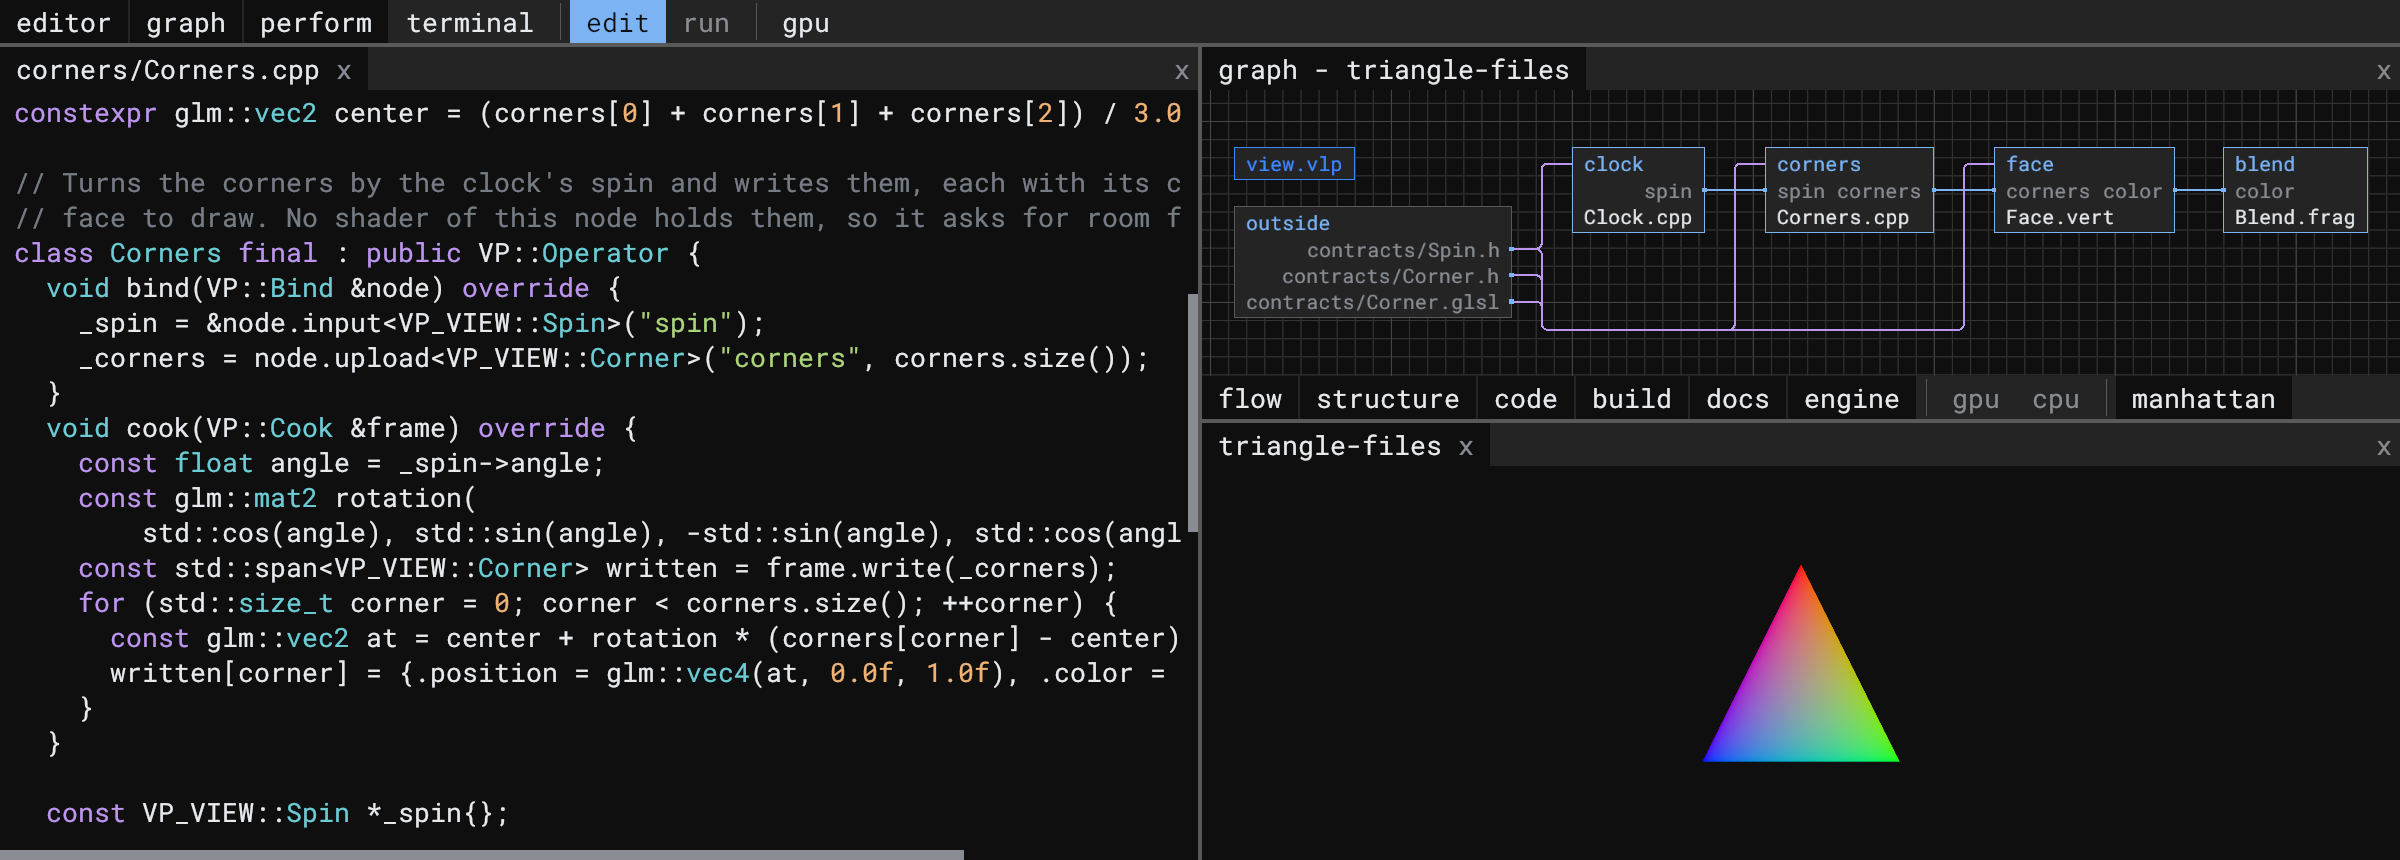
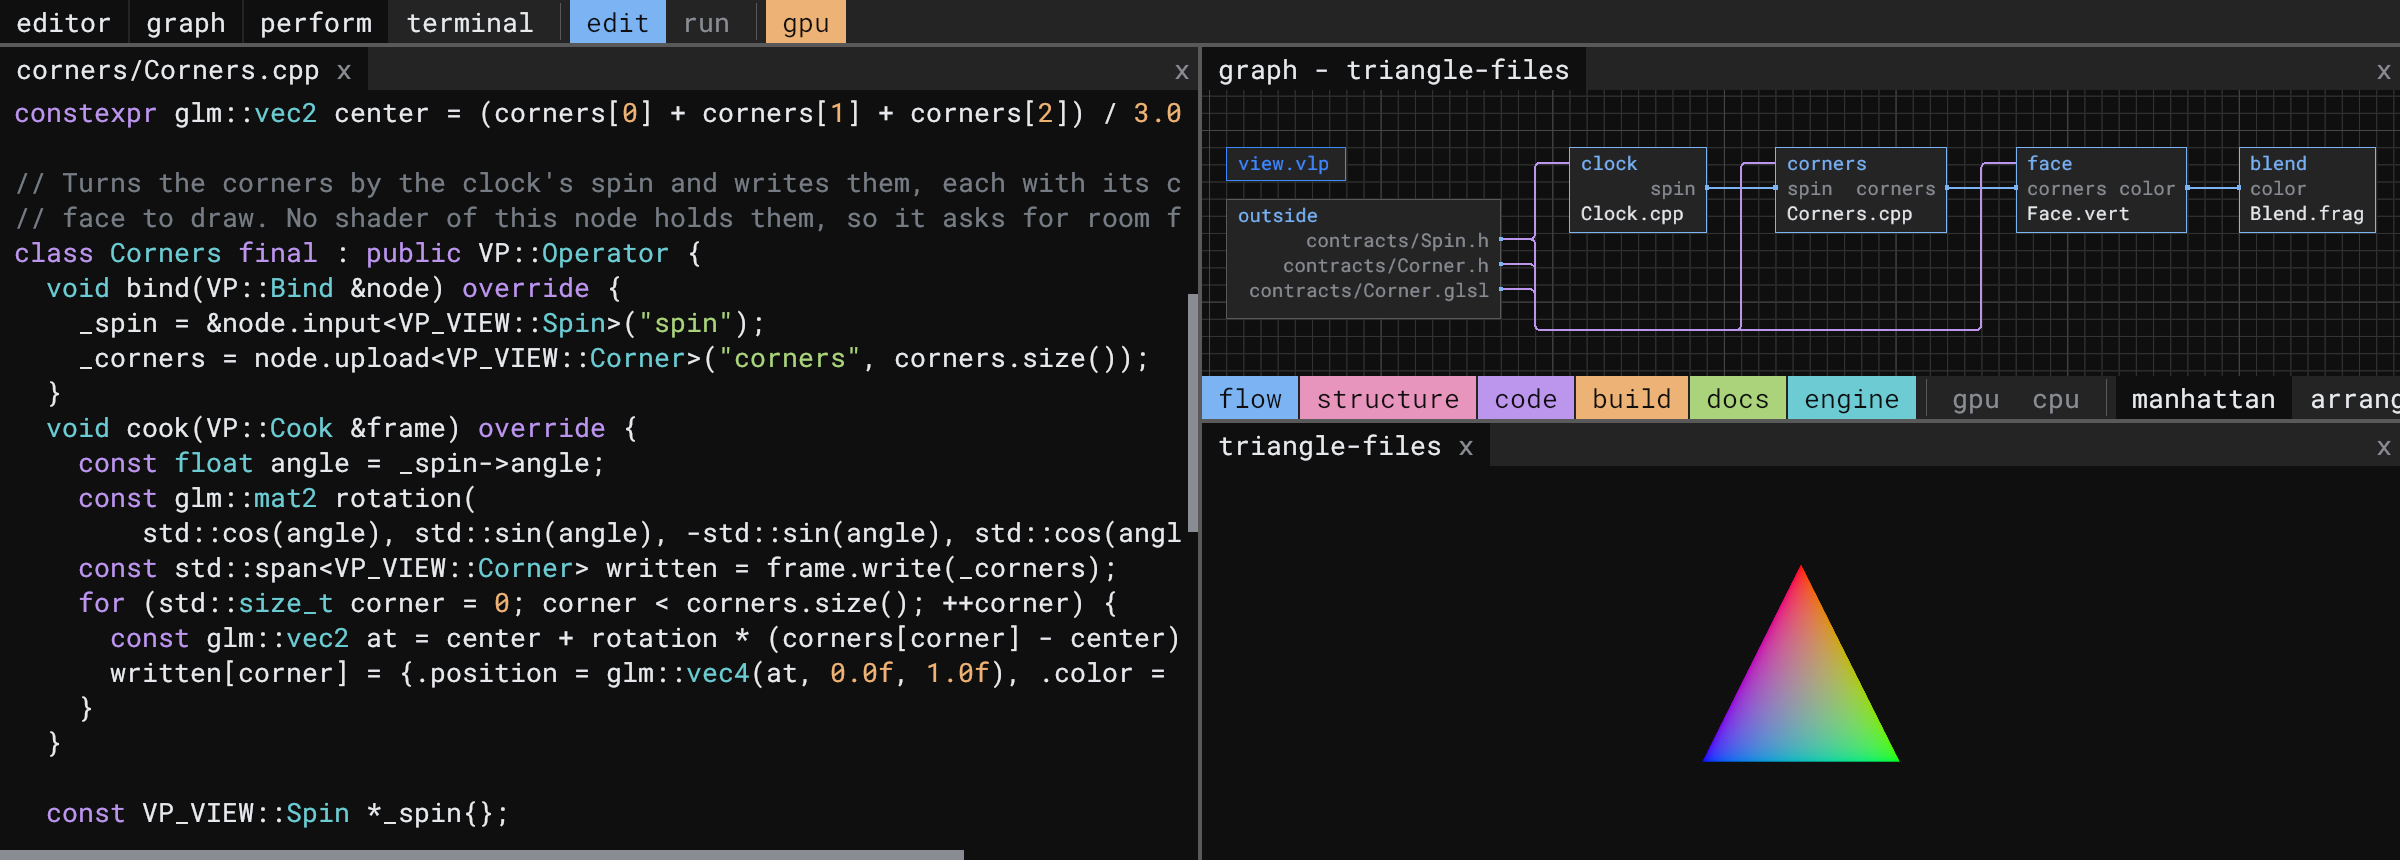
readme images: retaken for this round; LICENSE placed in the repository
The README's pictures, retaken by the release build: the graph's layer
buttons in their curves' colors, the gpu button lit, boxes on the
ground's lines, and the arrange button. LICENSE, which came after the
pictures were last taken, had no place in the repository's tracked
.vulpen/graph.ini, so the graph put it far below the others and home
zoomed the whole repository out; it goes in the column of the other
files at the top, below CMakePresets.json. A second run wrote the same
bytes for every picture but the two the place changed. perform.png is
as it was. performance.md as the release build left it.

Changed region(s): [[0.5, 0.0907, 1.0, 0.514], [0.3125, 0.0, 0.375, 0.0605]]

diff --git a/docs/statistics/performance.md b/docs/statistics/performance.md
@@ -4,5 +4,5 @@ Generated by [`src/tools/fetch-statistics.py`](../../src/tools/fetch-statistics.
 
 | System | CPU | GPU | Build | Startup to exit, median | Startup to exit, fastest | Binary size |
 | --- | --- | --- | --- | --: | --: | --: |
-| Linux | AMD Ryzen AI 7 350 w/ Radeon 860M | NVIDIA GeForce RTX 5070 Laptop GPU | `vulpen e81a5f0-dirty` | 1.06 ms | 0.55 ms | 2925.3 KiB |
+| Linux | AMD Ryzen AI 7 350 w/ Radeon 860M | NVIDIA GeForce RTX 5070 Laptop GPU | `vulpen 2f4a0dce-dirty` | 1.04 ms | 0.54 ms | 2996.4 KiB |
 | Windows | AMD Ryzen AI 7 350 w/ Radeon 860M | NVIDIA GeForce RTX 5070 Laptop GPU | `vulpen 2ddc4d7-dirty` | 8.04 ms | 7.38 ms | 683.0 KiB |
